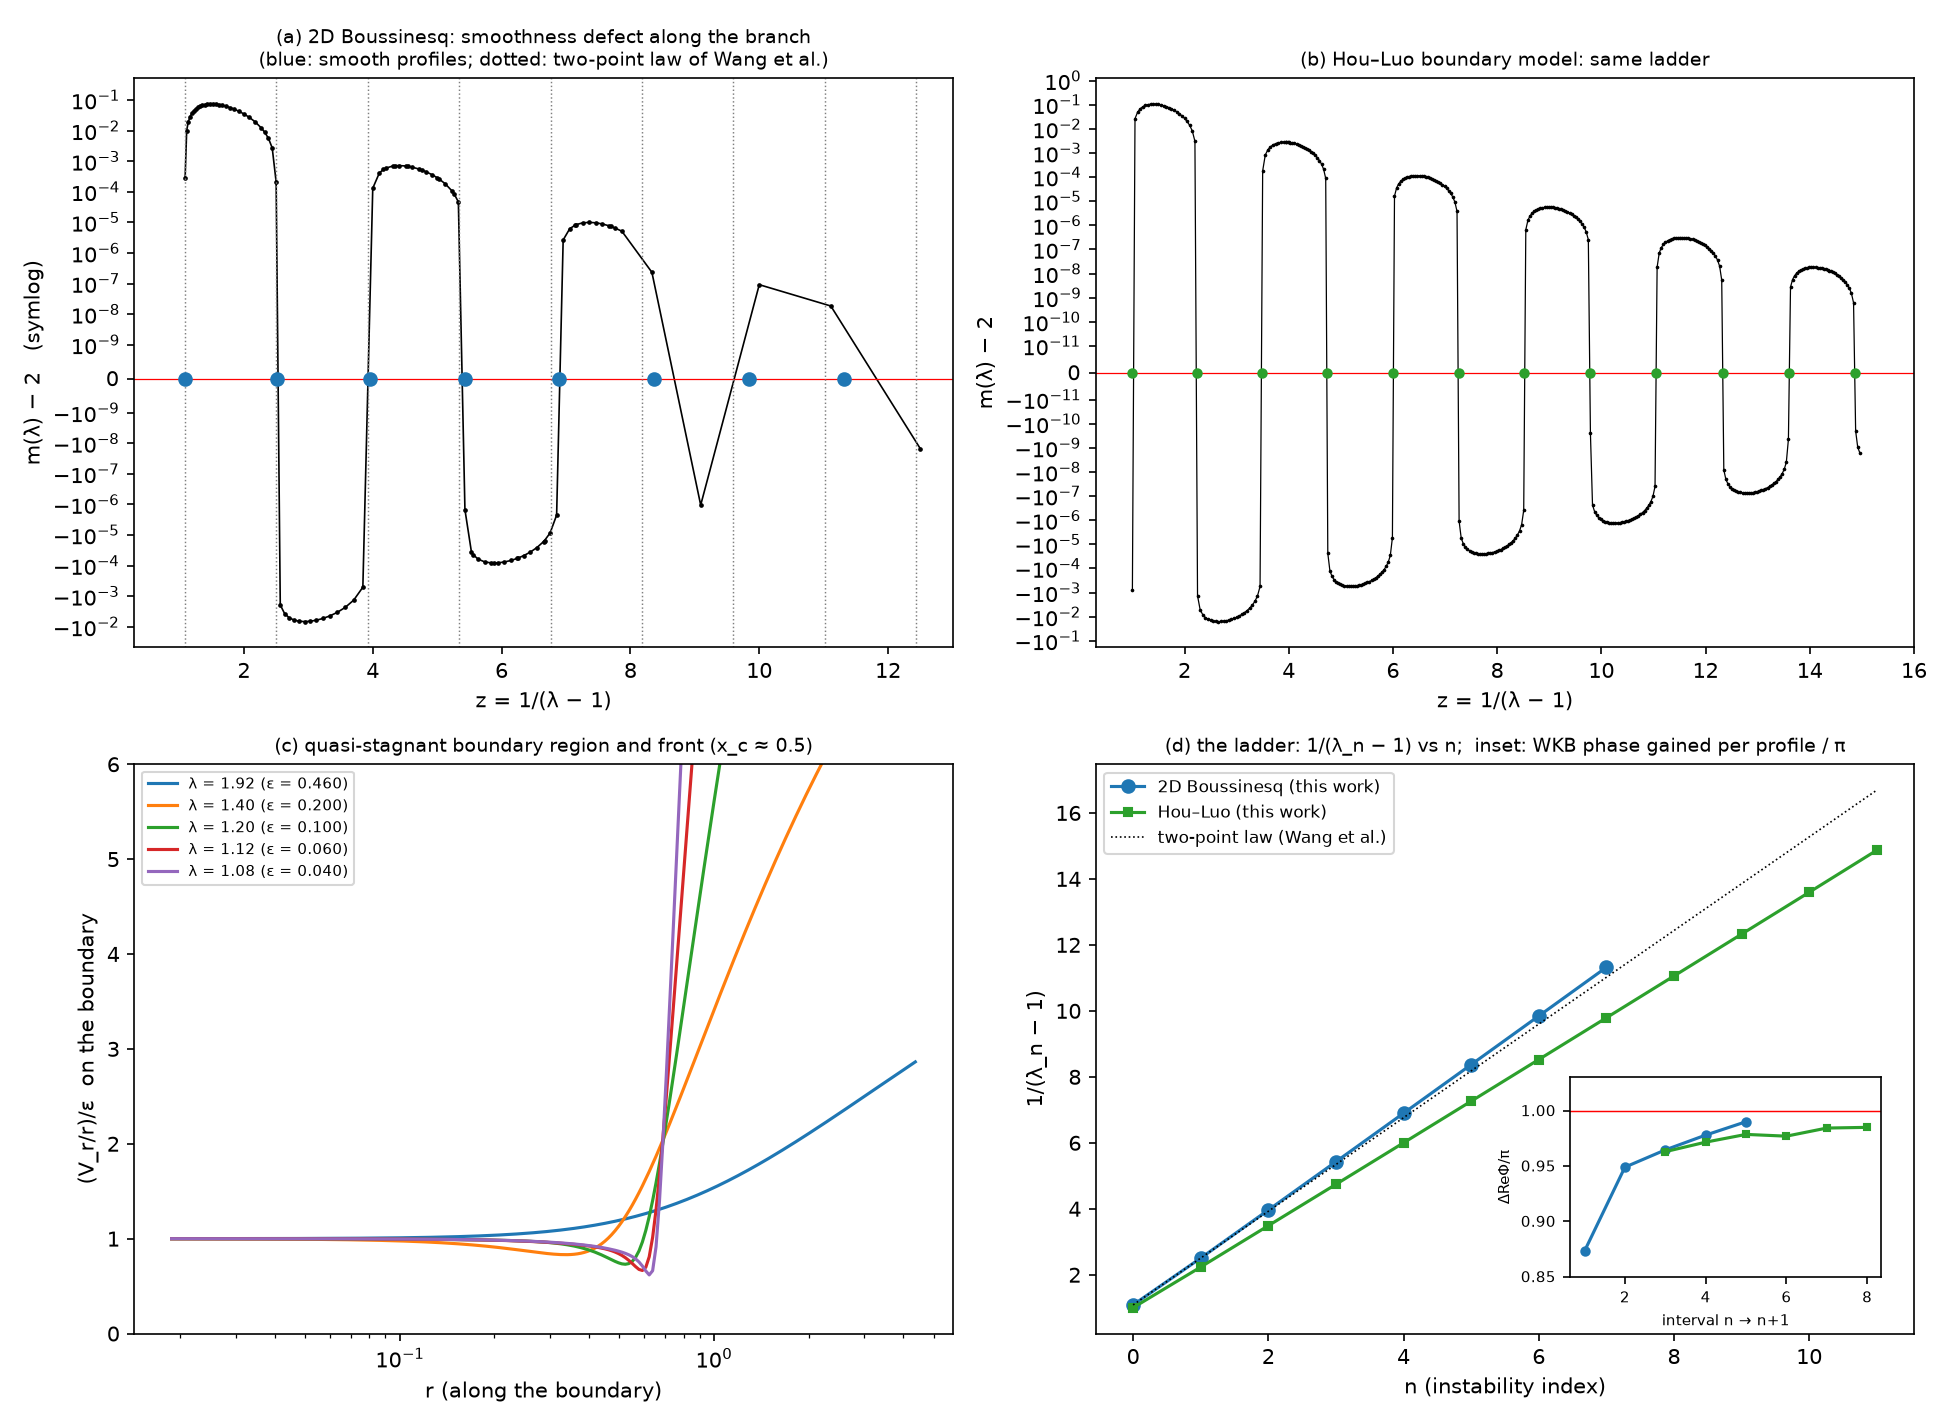
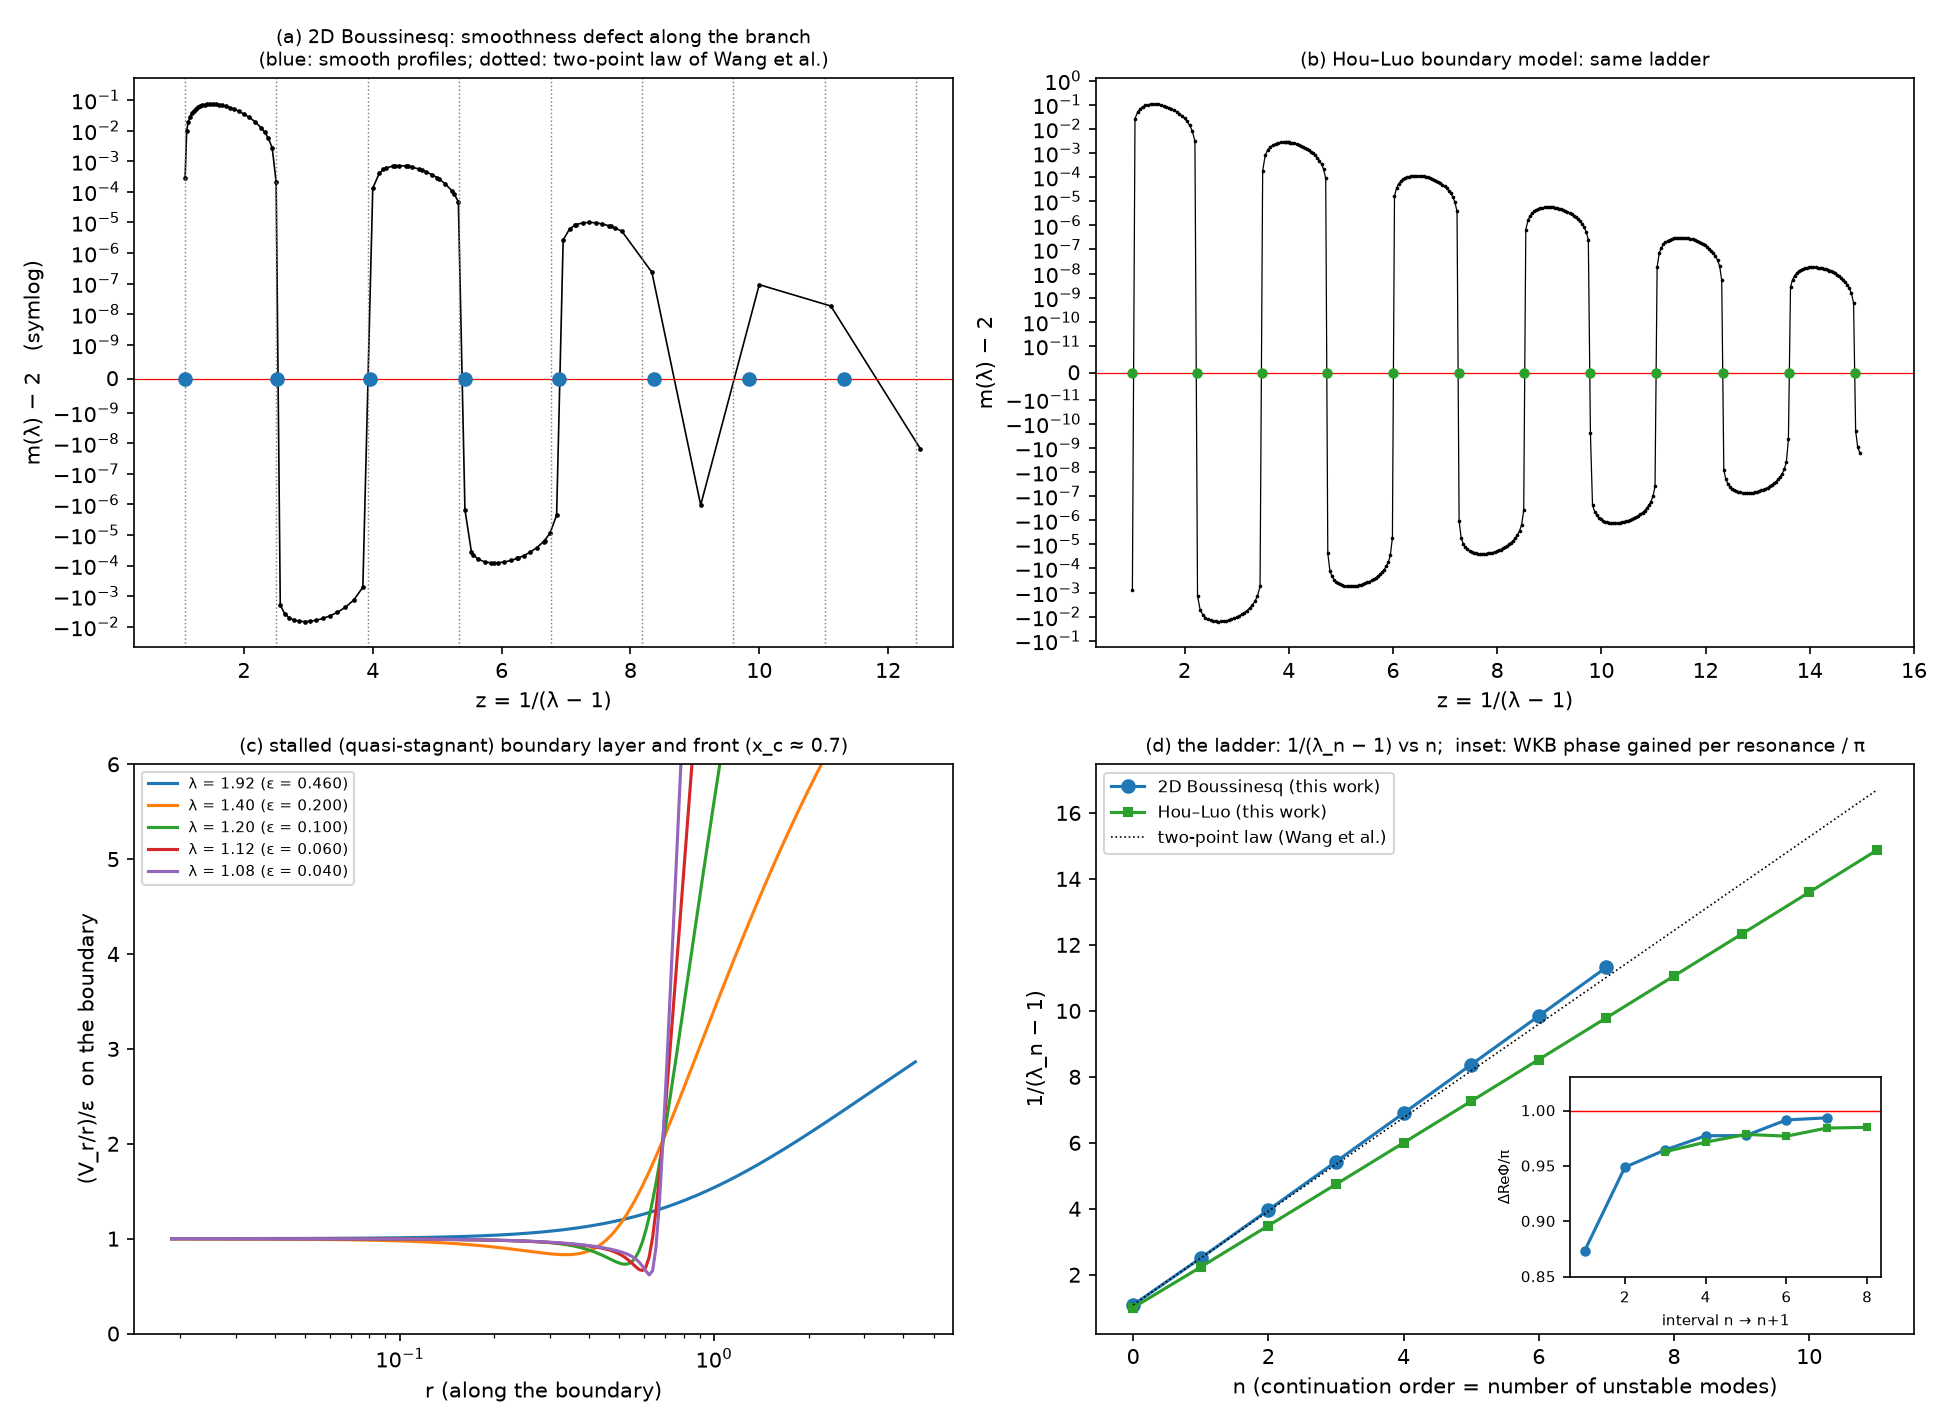
P03: docs aligned (manuscript, dossier, ledgers, audit addendum), figures updated
Claude-Session: https://claude.ai/code/session_019Uaxwtm17foVxpyvRRENv5

diff --git a/programs/P03_boussinesq_ladder/fig_bq_ladder.py b/programs/P03_boussinesq_ladder/fig_bq_ladder.py
@@ -80,7 +80,7 @@ zc_H = crossings(Hall)
 d.plot(np.arange(len(zc_H)), zc_H, 's-', color='tab:green', ms=4, label='Hou–Luo (this work)')
 nn = np.arange(0, 12)
 d.plot(nn, 1.0863 + 1.4187 * nn, 'k:', lw=0.8, label='two-point law (Wang et al.)')
-d.set_xlabel('n (continuation order = number of unstable modes)'); d.set_ylabel('1/(λ_n − 1)'); d.legend(fontsize=8, loc='upper left')
+d.set_xlabel('n (continuation order; in 2D = number of unstable modes, n ≤ 7)'); d.set_ylabel('1/(λ_n − 1)'); d.legend(fontsize=8, loc='upper left')
 d.set_title('(d) the ladder: 1/(λ_n − 1) vs n;  inset: WKB phase gained per resonance / π', fontsize=9)
 ins = d.inset_axes([0.58, 0.1, 0.38, 0.35])
 dphi_B = np.array([2.743, 2.981, 3.030, 3.070, 3.071, 3.115, 3.121]) / np.pi

diff --git a/literature/AUDIT_I_P03_boussinesq_ladder.md b/literature/AUDIT_I_P03_boussinesq_ladder.md
@@ -8,7 +8,7 @@ on search-engine snippets, abstracts, and the repository's earlier audits (AUDIT
 | C1. All known smooth 2D Boussinesq self-similar profiles (stable + unstable) lie on ONE branch of least-singular profiles; they are the zeros of m(λ) − 2. | Wang et al. arXiv:2509.14185 (PINN discovery of λ₀…λ₃ + candidate; each profile found separately; empirical law). Chen–Hou (stable profile; arXiv:2210.07191). Chen–Huang–Li arXiv:2604.01868 (singular, unbounded profiles for Hou–Luo and Boussinesq, a different class). | **New.** No branch or continuation picture for Boussinesq is reported. The least-singular family idea parallels our CCF work (P02), and families of non-smooth profiles exist for gCLM (Huang–Tong–Wang arXiv:2603.25104). Credit both. |
 | C2. Classical computation of λ₀…λ₇ (≥ 8 smooth profiles); λ₅–λ₇ new. | Wang et al.: 3 unstable + 1 candidate. The follow-up arXiv:2511.22819 concerns IPM/CCF. | **New** (as far as accessible). Their tabulated λ₂, λ₃ were not accessible. Ours differ by 2.5e-3 and 2.9e-3 from their two-point law, which passes through λ₀ and λ₁. |
 | C3. As λ → 1: quasi-stagnant boundary region plus a front tending to a square-root cusp; no sonic point at λ > 1. | CCF terminal cusp (our P02). No Boussinesq analogue found. | **New.** |
-| C4. Ladder = WKB quantisation in the quasi-stagnant region; ΔRe Φ → π; asymptotic spacing π/(2 Re a) ≈ 1.50; smoothness defect ∝ (λ−1)^{≈3/2} e^{−Im Φ}. | Exponential-asymptotics selection (Saffman–Taylor, dendrites; Kruskal–Segur type) is classical in other contexts. Infinitely many self-similar blow-up profiles are known for Keller–Segel in d = 3–9 (arXiv:2503.02263, matched asymptotics). De Gregorio: infinitely many profiles with the same scaling (Huang–Tong–Wei, CMP 2023). | **New for fluid singularities.** Frame it as a WKB/beyond-all-orders selection mechanism and cite the classical selection literature. |
+| C4. Ladder = WKB (phase) quantisation in the stalled (quasi-stagnant) layer; ΔRe Φ → π; asymptotic spacing π/C = 1.48 ± 0.01 (revised from ≈ 1.50 after a front cut-off study; 3/2 not supported); smoothness defect ∝ (λ−1)^{p} e^{−Im Φ} with fitted p ≈ 1.5. Formal asymptotics + an elementary lemma; no proof claimed. | Exponential-asymptotics selection (Saffman–Taylor, dendrites; Kruskal–Segur type) is classical in other contexts. Infinitely many self-similar blow-up profiles are known for Keller–Segel in d = 3–9 (arXiv:2503.02263, matched asymptotics). De Gregorio: infinitely many profiles with the same scaling (Huang–Tong–Wei, CMP 2023). | **New for fluid singularities.** Frame it as a WKB/beyond-all-orders selection mechanism and cite the classical selection literature. |
 | C5. Hou–Luo model: the same ladder (12 crossings), λ₀^{HL} = 1.99871. | Huang–Qin–Wang–Wei CMP 2025 (existence of the smooth stable HL profile); Chen–Hou–Huang Ann. PDE 2022. The HL unstable ladder was listed as open in our AUDIT_C. | **New.** Check λ₀^{HL} against the published stable exponent when accessible. |
 | C6. Finite (CCF) vs infinite (Boussinesq/HL) ladders explained by where the sonic cusp forms. | — | **New synthesis.** |
 
@@ -16,3 +16,11 @@ on search-engine snippets, abstracts, and the repository's earlier audits (AUDIT
 establishes its infiniteness, or that explains the empirical law. Status: **survives**. Before submission, re-check
 arXiv once access is available, specifically: Wang et al. v2+, 2511.22819, any 2026 work on "unstable Boussinesq
 profiles", and Hou group papers.
+
+**Addendum (R028, reviewer alignment).** Three further claims.
+
+| Claim | Nearest literature | Verdict |
+|---|---|---|
+| C7. Instability index n of the n-th profile for all eight profiles, from two independent linear-stability methods (march-based eigen-condition; global shift-invert eigen-solver); 21 unstable eigenvalues agree to 1e-5. | Wang et al. 2509.14185 report the n-unstable-modes pattern for their profiles (n ≤ 3). | **Extends** their observation to n = 4–7. The two classical stability methods are new for this problem. |
+| C8. Independent reproduction of λ₀…λ₇ by a second solver sharing no numerical ingredient, to ≤ 1e-5. | — | Verification (no novelty claim). |
+| C9. The lower unstable eigenvalues scale with ε = (λ_n−1)/2 (μ_k/ε → 1.6, 3.8, 6.05, …). | — | **Observation**, not derived. Check for related eigenvalue asymptotics in the literature before claiming. |

diff --git a/dossier/P03_DOSSIER.md b/dossier/P03_DOSSIER.md
@@ -46,7 +46,8 @@ stagnation point. The smooth profiles are the regularity resonances m(λ) = 2.
    - The smoothness defect is m − 2 ≈ |K| e^{−Im Φ} cos(Re Φ + arg K), with Φ = ε⁻¹∫κ ds, so the resonances
      satisfy Re Φ(λ_n) = nπ + δ + o(1).
    - Computed phase gain per resonance: 2.98, 3.03, 3.07, 3.07, 3.115, 3.12, tending to π.
-   - δ_n = 2.27 → 1.81 (n = 1…7), converging with steps that decay like z⁻².
+   - Integrated through the front (cut at D/ε = 5–8), δ_n = Re Φ(λ_n) − nπ is constant to ±0.03 for n = 4–7. With
+     the cut at D/ε = 3 it still drifts: 2.27 → 1.81 for n = 1…7.
 6. **[F, as far as the derivation supports] 1/(λ_n − 1) = a n + o(n), with a = π/C.**
    - C = 2 Re ∫κ₀ ds > 0. Positivity is exact for the Hou–Luo local root; in 2D it is checked pointwise.
    - The remainder is O(1) only under a uniformity hypothesis (U) on the stalled layer, which fails near the front
@@ -57,8 +58,8 @@ stagnation point. The smooth profiles are the regularity resonances m(λ) = 2.
      - Measured spacings: 1.4646, 1.4699, 1.4728, 1.4743, 1.4758 (monotone).
    - 3/2 is not derived and not supported by these fits. It could be reached only by a slow non-analytic approach.
 7. **[N + closed-form local root] Hou–Luo shows the same mechanism.**
-   - 8 reliable resonances; phase gain per resonance 3.02 → 3.09 (→ π).
-   - Spacings 1.2583 → 1.2652 against the WKB prediction π/(2 Re a₀) ≈ 1.27.
+   - 11 resonances are resolved above the noise (z ≤ 13.56). The phase gain per resonance is 3.02 → 3.09 (→ π).
+   - Spacings 1.2583 → 1.2652 against the WKB prediction π/(2 Re a₀) ≈ 1.267.
    - The local root has the closed form κ = (−1 + √(1+4iΩ))/(2iD̂). Re κ > 0 for Ω > 0.
 8. **[N, P02] CCF is the finite contrast.**
    - Its branch reaches the square-root cusp at finite λ* = 0.4535843 and ends after three smooth profiles.
@@ -170,15 +171,15 @@ almost equally spaced ladder. The largest eigenvalue approaches ≈ 0.75.
   - Integrated through the front, the quantization Re Φ(λ_n) = nπ + δ holds with δ constant to ±0.03.
   - Direct fits of the resonance positions give π/C = 1.476–1.479, so π/C = 1.48 ± 0.01.
   - The measured local slopes π/Δz_n decrease monotonically from 2.145 to 2.129, which bounds C from above.
-  - Cut-off sensitivity: ⟨wkb_sens⟩.
 
 ## 4. Limitations and open points
 - No proof; the WKB derivation is formal.
 - Hypothesis (U) fails near the front, where the dip closes like ε^{0.18}. The o(1) error term in Φ is therefore
   not established; only o(1/(λ−1)) is.
 - The value of C is known only to about ±1 % (π/C = 1.48 ± 0.01). 3/2 is not derived and is disfavoured by the fits.
-- The deepest resonances have |m − 2| ~ 1e-6 (λ₆) and 1e-7 (λ₇). Their existence rests on sign changes resolved
-  by both solvers; their location is hs-sensitive (Table 1).
+- The deepest resonances have |m − 2| ~ 1e-6 (λ₆) and 1e-7 (λ₇) nearby. Their existence rests on two things: sign
+  changes of m − 2 in the marching solver, and direct convergence of the global solver to a smooth profile at the
+  same λ. Their location is hs-sensitive (Table 1).
 - **Stability results hold within a smooth-perturbation class.** The perturbation must be regular at the
   stagnation point.
   - Both methods truncate at the origin (s_start = −20 or s_min = −12/−20). This creates truncation-dependent

diff --git a/dossier/P03_MANUSCRIPT_DRAFT.md b/dossier/P03_MANUSCRIPT_DRAFT.md
@@ -16,8 +16,9 @@ equals 2 exactly at a smooth profile.
 - Continuation along the branch with a classical solver locates eight such regularity resonances, from
   λ₀ = 1.9205593 to λ₇ = 1.0883384. Four of them lie beyond those previously reported.
 - An independent global Newton solver reproduces all eight resonances to ≤ 1e-5 (≤ 6e-7 for n = 1–5).
-- Two independent linear-stability methods find n unstable modes for the n-th profile, as reported for the first
-  four.
+- Linear stability finds n unstable modes for the n-th profile for all eight, which extends the pattern reported for
+  the first four.
+- A second, independent method reproduces all 21 unstable eigenvalues of λ₁–λ₆ to about 1e-5.
 
 **Mechanism.**
 - As λ → 1⁺ the profiles develop a stalled boundary layer next to a front that tends to a square-root cusp.
@@ -81,7 +82,6 @@ whenever Ω > 0.
 
 **Numerical verification.**
 - Phase gain per resonance 2.98, 3.03, 3.07, 3.07, 3.115, 3.12 (2D) and 3.02–3.09 (Hou–Luo).
-- δ_n converges.
 - The linear law Re Φ = Cz + Φ₀ holds to ±0.024 over n = 4–7 for every front cut-off.
 - Integrated through the front, Re Φ(λ_n) − nπ is constant to ±0.03.
 - The directly measured spacings increase monotonically, 1.4646 → 1.4758, and bound π/C from below.
@@ -89,15 +89,16 @@ whenever Ω > 0.
   give 1.478–1.493. Hence π/C = 1.48 ± 0.01.
 - 3/2 (C = 2π/3) is not derived. It would require a slow non-analytic approach and is not supported by the fits.
 
-**Interpretation (not a derivation).** The n-th resonance carries n half-wavelengths of the layer oscillation.
-Its instability index is n.
+**Heuristic (not a derivation).** The n-th resonance carries n half-wavelengths of the layer oscillation, and its
+instability index is n. No link between the two is derived here. The lower unstable eigenvalues scale with
+ε = (λ_n−1)/2 and form an almost equally spaced sequence, μ_k/ε ≈ 1.6, 3.8, 6.05, 8.4, …
 
 ## 5. Finite versus infinite ladders
 - **CCF (P02).** The sonic depth vanishes at λ* = 0.4535843. The branch ends in a square-root cusp with a
   log-periodic approach and carries three profiles. This is consistent with the unsuccessful search for a third
   profile in λ ∈ [0.455, 0.4713] (Wang, Léger, Lai, Buckmaster, arXiv:2511.22819).
 - **Boussinesq and Hou–Luo.** The cusp is approached only as λ → 1, and the stalled layer in front of it supports
-  the quantized oscillation, so the ladder continues.
+  the quantized oscillation. The evidence therefore points to an unbounded ladder.
 
 ## 6. Methods and verification (SI)
 - **Solver details and pitfalls.** FFT/Gibbs contamination of Newton directions; roundoff-limited Jacobian-vector

diff --git a/ledger/IDEAS.md b/ledger/IDEAS.md
@@ -130,6 +130,6 @@ Each entry: **question** → *positive target* · cheapest decisive test.
 - **IDEA118** Cusp exponent family for fractional velocities HΛ^s: sonic-point singularity |x|^{(1+s)/2}, τ(s) from the Mellin symbol — test with the pinned method.
 
 ### Third-generation ideas (P03, 2D Boussinesq ladder)
-- **IDEA119** The 2D Boussinesq (Hou–Luo scenario) ladder as level crossings m(λ) = 2 of ONE least-singular branch, computed with a classical log-polar Newton–Krylov solver (no PINN). → **ACTIVE / VERIFIED for λ₀–λ₂** (R023–R025): λ₀ = 1.9205593, λ₁ = 1.3990961, λ₂ = 1.2523487 (Nb/hs converged to 1e-7), λ₃ ≈ 1.184, λ₄ ≈ 1.146, λ₅ ≈ 1.118 (new).
+- **IDEA119** The 2D Boussinesq (Hou–Luo scenario) ladder as level crossings m(λ) = 2 of ONE least-singular branch, computed with a classical log-polar Newton–Krylov solver (no PINN). → **VERIFIED** (R023–R028): λ₀…λ₇ = 1.9205593, 1.3990961, 1.2523487, 1.1842533, 1.1449857, 1.1194738, 1.1015817, 1.0883384. An independent global solver reproduces them to ≤ 1e-5. The instability index is n for all eight (two independent stability methods).
 - **IDEA120** Hou–Luo 1D boundary model as a cheap proxy: same local smoothness condition (m = 2 ⇔ A = (3+λ)/2), same oscillating branch; 8+ smooth profiles accumulating at λ = 1 (spacing in 1/(λ−1) → 1.264). → ACTIVE (R025).
-- **IDEA121** WKB quantisation of the quasi-stagnant boundary region as λ → 1 (D = V₁/x = O(ε), ε = 1+λ−A): complex local wavenumber (HL closed form iD̂κ² + κ − Ω/D̂ = 0; 2D vertical eigenproblem); smooth profiles ⇔ Re[K e^{iΦ}] = 0, Φ = ε⁻¹∫κ ds ⇒ 1/(λ_n−1) linear in n (explains the DeepMind empirical law) and exponentially decaying smoothness defect. → ACTIVE: spacing predicted to 0.4 % (HL); 2D to a few % (R025).
+- **IDEA121** WKB quantisation of the quasi-stagnant boundary region as λ → 1 (D = V₁/x = O(ε), ε = 1+λ−A): complex local wavenumber (HL closed form iD̂κ² + κ − Ω/D̂ = 0; 2D vertical eigenproblem); smooth profiles ⇔ Re[K e^{iΦ}] = 0, Φ = ε⁻¹∫κ ds ⇒ 1/(λ_n−1) linear in n (explains the DeepMind empirical law) and exponentially decaying smoothness defect. → ACTIVE: spacing predicted to 0.2 % (HL). 2D: π/C = 1.48 ± 0.01 after a front cut-off study (R028). Formal; no proof claimed.

diff --git a/ledger/PORTFOLIO.md b/ledger/PORTFOLIO.md
@@ -1,8 +1,9 @@
 # ACTIVE PORTFOLIO & COMPUTE ALLOCATION  (v2, 2026-09-28, final state; v1 after literature death audit A–G)
 
 **Update (P03, 2D Boussinesq ladder):** new Tier-A program (folder `programs/P03_boussinesq_ladder`; the earlier
-queued "P03 Couette threshold" is renamed P16). Result: 7 smooth profiles on one branch and a WKB-quantisation
-theory of the infinite ladder (dossier/P03_DOSSIER.md; RLOG R023–R026).
+queued "P03 Couette threshold" is renamed P16). Result: 8 regularity resonances λ₀…λ₇ on one branch, reproduced
+by an independent solver. The instability index is n for all eight. A formal phase-quantization mechanism gives
+evidence for an infinite ladder; no proof is claimed (dossier/P03_DOSSIER.md; RLOG R023–R028).
 
 **Final status:** P02 → VERIFIED main result (dossier/DOSSIER.md): the CCF self-similar branch carries exactly three smooth
 profiles (λ₀, λ₁, λ₂) and terminates at a square-root cusp (λ* = 0.4535845, p* = 2.005772) approached with
